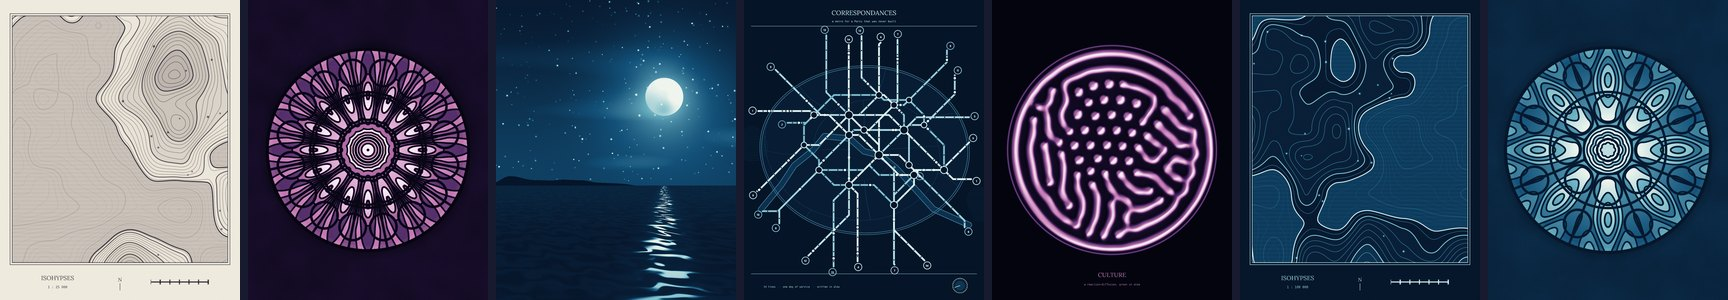
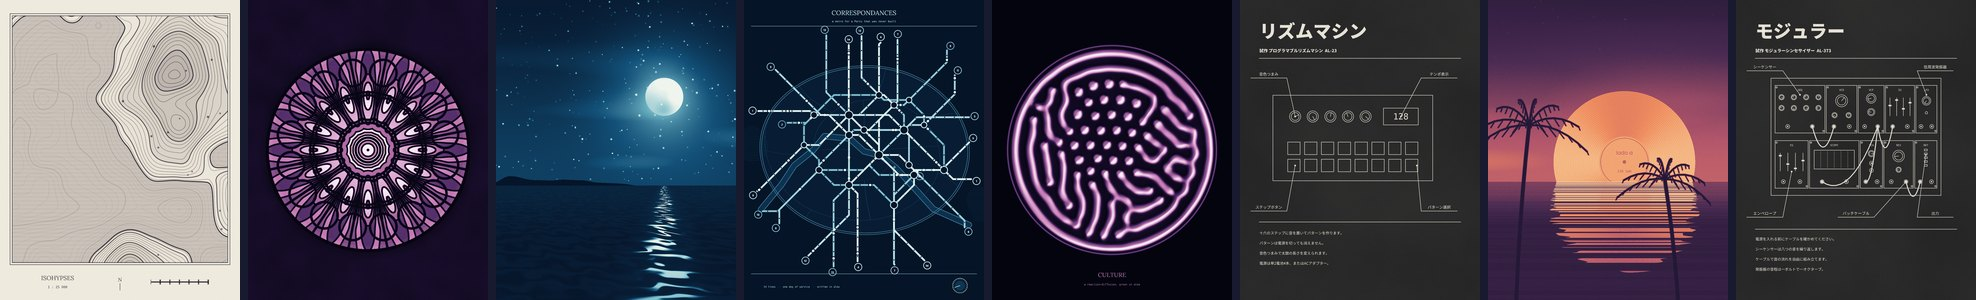
feat(site): Kikai, Atardecer and Kairo in the gallery, the README and the Reels
Six posted editions of each work in exhibition/instagram/, the three new
Reels on the site, the works in the README's banner and a row of their
Reels as short loops.

Claude-Session: https://claude.ai/code/session_01J242YqH6JArJjtWMxi6xJV

diff --git a/site/index.html b/site/index.html
@@ -76,7 +76,7 @@
 <section class="exhibition" id="exhibition" aria-labelledby="exhibition-title">
   <div class="section-head">
     <h2 id="exhibition-title">Exhibition</h2>
-    <p>Five works, six editions each, as posted on <a href="https://www.instagram.com/sudo.mp3/">Instagram @sudo.mp3</a>. Each picture is named by its seed; the command beside each work draws its first one again.</p>
+    <p>Eight works, six editions each, as posted on <a href="https://www.instagram.com/sudo.mp3/">Instagram @sudo.mp3</a>. Each picture is named by its seed; the command beside each work draws its first one again.</p>
   </div>
 <!--GALLERY-->
 </section>

diff --git a/site/build.py b/site/build.py
@@ -1,7 +1,7 @@
 #!/usr/bin/env python3
 """Assembles the site (alea.bngz.io) in _site/: the pages of site/, the browser
 engine and the work drawn live on the home page, the exhibition's editions
-(resized for the web), two Reels, the fonts, the playground and the handbook.
+(resized for the web), the Reels, the fonts, the playground and the handbook.
 
     web/build.sh && python3 web/handbook.py   # the engine, playground, handbook
     python3 site/build.py                     # → _site/
@@ -29,8 +29,17 @@ WORKS = [
      "The plan of a metro for a Paris that was never built: the real city's grammar, a new network every edition."),
     ("culture", "Culture", "exhibition/culture.alea",
      "A petri dish: colonies seeded at random grow by reaction–diffusion, two kinds of life side by side."),
+    ("kikai", "Kikai 機械図", "exhibition/kikai.alea",
+     "The technical drawing of an analog machine that never existed (a cassette deck, a radio-cassette, a portable radio or a rhythm machine), labelled in Japanese like a service manual."),
+    ("atardecer", "Atardecer", "exhibition/atardecer.alea",
+     "A sunset on the sea, the sun a record setting into it: grooves, a label, the reflection broken into slats, palms in silhouette, in washed-out colours."),
+    ("kairo", "Kairo 回路", "exhibition/kairo.alea",
+     "After Kikai, a modular synthesizer that never existed: modules racked in another order every edition, patched with hanging cables."),
 ]
 REELS = [
+    ("12-kikai-reel", "Kikai", "A rhythm machine plays Detroit techno at 128 BPM; the acid line written below is the one you hear."),
+    ("14-kairo-reel", "Kairo", "A modular synthesizer plays a slow piano waltz, no drums; the melody is written on the staff as it plays."),
+    ("13-atardecer-reel", "Atardecer", "A record setting into the sea turns at 33 rpm, over lofi house at 116 BPM."),
     ("8-correspondances-reel", "Correspondances", "One day of service on the network, with its sound."),
     ("10-culture-reel", "Culture", "Seventy-two hours of incubation in twenty seconds."),
 ]
@@ -86,7 +95,7 @@ def main():
     resized(first, out / "img" / "hero.webp", 1080, 86)
     shutil.copy(posts / "6-alea-card.jpg", out / "og.jpg")
 
-    # two Reels, with their covers
+    # the Reels, with their covers
     for stem, _, _ in REELS:
         shutil.copy(posts / f"{stem}.mp4", out / "img" / f"{stem}.mp4")
         resized(posts / f"{stem}-cover.jpg", out / "img" / f"{stem}.webp", 720)

diff --git a/docs/images/build.py b/docs/images/build.py
@@ -9,6 +9,7 @@ Needs Pillow and ffmpeg. Writes, next to this file:
   isohypses-editions.jpg   the six posted editions of Isohypses, with their seeds
   breathing-0x3.webp, breathing-0x7.webp   examples/breathing.alea, two looping editions
   culture.webp             the Culture Reel: colonies growing in a petri dish
+  kikai.webp, kairo.webp, atardecer.webp   four seconds of each of their Reels
 """
 import glob, pathlib, subprocess, tempfile
 
@@ -50,8 +51,8 @@ def main():
 
     # the banner: one edition of each work of the exhibition
     picks = ["1-isohypses-1-0xa1ea03", "3-rosace-2-0xa1ea05", "2-nocturne-3-0xa1ea09",
-             "7-correspondances-2-0xa1ea01", "9-culture-3-0xc06", "1-isohypses-3-0xa1ea01",
-             "3-rosace-6-0xa1ea0f"]
+             "7-correspondances-2-0xa1ea01", "9-culture-3-0xc06", "12-kikai-1-0xa1ea05",
+             "13-atardecer-1-0xa1ea01", "14-kairo-1-0xa1ea01"]
     tiles = [Image.open(posts / f"{p}.jpg").convert("RGB").resize((240, 300), Image.LANCZOS) for p in picks]
     gap = 8
     banner = Image.new("RGB", (len(tiles) * 240 + (len(tiles) - 1) * gap, 300), INK)
@@ -87,6 +88,14 @@ def main():
     subprocess.run(["ffmpeg", "-v", "error", "-i", str(posts / "10-culture-reel.mp4"), "-vf",
                     "fps=10,crop=1080:1080:0:420,scale=300:300:flags=lanczos", str(frames / "%03d.png")], check=True)
     anim(str(frames / "*.png"), here / "culture.webp", 100)
+
+    # Kikai, Kairo, Atardecer: four seconds of each Reel
+    for stem, start in [("12-kikai-reel", 1.0), ("14-kairo-reel", 14.0), ("13-atardecer-reel", 4.0)]:
+        frames = tmp / stem
+        frames.mkdir()
+        subprocess.run(["ffmpeg", "-v", "error", "-ss", str(start), "-t", "4", "-i", str(posts / f"{stem}.mp4"), "-vf",
+                        "fps=12,scale=270:-1:flags=lanczos", str(frames / "%03d.png")], check=True)
+        anim(str(frames / "*.png"), here / f"{stem.split('-')[1]}.webp", 83)
 
     for f in sorted(here.glob("*.*")):
         if f.suffix != ".py":

diff --git a/exhibition/README.md b/exhibition/README.md
@@ -42,6 +42,12 @@ The posted editions:
 | Correspondances Reel | 0xa1ea18 |
 | Culture | 0xc00 · 0xc05 · 0xc06 · 0xc0b · 0xc0a · 0xc01 |
 | Culture Reel | 0xc06 |
+| Kikai | 0xa1ea05 · 0xa1ea04 · 0xa1ea08 · 0xa1ea01 · 0xa1ea0a · 0xa1ea0f |
+| Kikai Reel | 0xa1ea05 |
+| Atardecer | 0xa1ea01 · 0xa1ea03 · 0xa1ea04 · 0xa1ea02 · 0xa1ea06 · 0xa1ea07 |
+| Atardecer Reel | 0xa1ea01 |
+| Kairo | 0xa1ea01 · 0xa1ea00 · 0xa1ea02 · 0xa1ea03 · 0xa1ea04 · 0xa1ea06 |
+| Kairo Reel | 0xa1ea01 |
 
 All images are 1080 × 1350 (4:5, Instagram's portrait format); the Reel is
 1080 × 1920 (9:16), 15 seconds, with sound.
@@ -359,6 +365,7 @@ Chaque écran est un programme qui tourne au même instant.
 
 | # | Post | Files |
 |---|---|---|
+| 12 | Kikai, carousel of 6 | `12-kikai-*-0x*.jpg` (0xa1ea05 · 0xa1ea04 · 0xa1ea08 · 0xa1ea01 · 0xa1ea0a · 0xa1ea0f) |
 | 12 | Kikai, Reel (15 s, eight bars at 128 BPM) | `12-kikai-reel.mp4` (cover: `12-kikai-reel-cover.jpg`) |
 
 **How it is made.** The drawing is the still, and every motion is zero at
@@ -395,6 +402,7 @@ composé et synthétisé par le même programme. Édition 0xa1ea05.
 
 | # | Post | Files |
 |---|---|---|
+| 13 | Atardecer, carousel of 6 | `13-atardecer-*-0x*.jpg` (0xa1ea01 · 0xa1ea03 · 0xa1ea04 · 0xa1ea02 · 0xa1ea06 · 0xa1ea07) |
 | 13 | Atardecer, Reel (16.5 s, eight bars at 116 BPM) | `13-atardecer-reel.mp4` (cover: `13-atardecer-reel-cover.jpg`) |
 
 **How it is made.** The sun is written as a function of the point, not as a
@@ -428,6 +436,7 @@ composé et synthétisé par le même programme. Édition 0xa1ea01.
 
 | # | Post | Files |
 |---|---|---|
+| 14 | Kairo, carousel of 6 | `14-kairo-*-0x*.jpg` (0xa1ea01 · 0xa1ea00 · 0xa1ea02 · 0xa1ea03 · 0xa1ea04 · 0xa1ea06) |
 | 14 | Kairo, Reel (25 s, ten bars of three at 72 BPM) | `14-kairo-reel.mp4` (cover: `14-kairo-reel-cover.jpg`) |
 
 **How it is made.** The rack is two rows of five modules (oscillators,

diff --git a/README.md b/README.md
@@ -120,6 +120,23 @@ incubation in twenty seconds.
 </tr>
 </table>
 
+<table>
+<tr>
+<td width="25%"><img src="docs/images/kikai.webp" alt="Kikai: a rhythm machine drawn like a service manual, its steps lighting up"></td>
+<td width="25%"><img src="docs/images/kairo.webp" alt="Kairo: a modular synthesizer, its cables swaying, the melody written on a staff"></td>
+<td width="25%"><img src="docs/images/atardecer.webp" alt="Atardecer: a record setting into the sea as the sun"></td>
+<td>
+<strong>The picture and the music, one program.</strong>
+<a href="exhibition/kikai.alea">Kikai</a> draws a machine that never existed and
+plays Detroit techno on it; <a href="exhibition/kairo.alea">Kairo</a> racks a
+modular synthesizer that plays a slow piano waltz;
+<a href="exhibition/atardecer.alea">Atardecer</a> sets a record into the sea over
+lofi house. Every instrument is a <code>synth</code>, and the notes you hear are
+the ones drawn.
+</td>
+</tr>
+</table>
+
 ## What you can make
 
 | `render …` | You get |
@@ -171,7 +188,7 @@ On macOS, the first time: `xattr -d com.apple.quarantine alea`.
 | **[The reference](docs/reference.md)** | every statement, function, render option and limit |
 | **[The instruments](examples/instruments/)** | alea's instruments written as synths, to open, change and `use` |
 | **[The examples](examples/)** | finished works: `rosace`, `moon`, `tide`, `poster`, `constellation`… |
-| **[The exhibition](exhibition/)** | larger works: `isohypses`, `nocturne`, `correspondances`, `culture`… |
+| **[The exhibition](exhibition/)** | larger works: `isohypses`, `nocturne`, `correspondances`, `culture`, `kikai`, `kairo`… |
 
 ## The language in one screen
 
